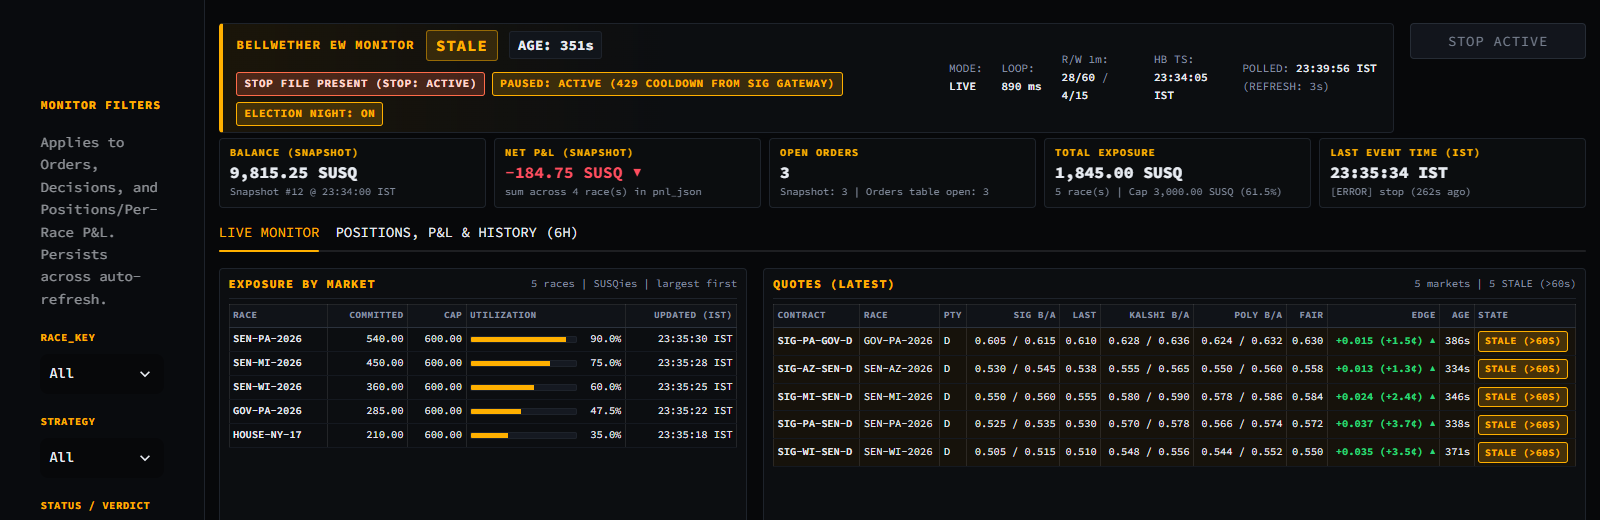
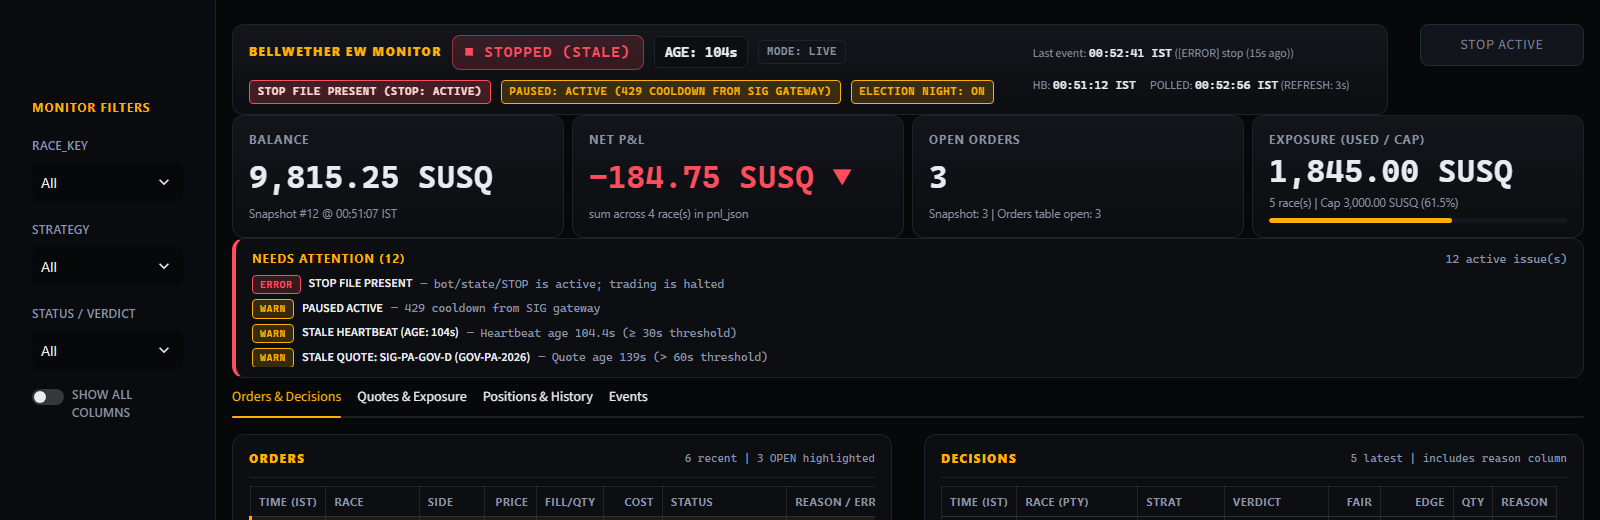
docs: update README test counts and screenshots for dashboard v2 (becbbe2)

diff --git a/README.md b/README.md
@@ -12,8 +12,8 @@
 > - **A live monitoring dashboard** with a confirmation-gated STOP control.
 
 <p align="center">
-  <img src="docs/assets/screenshots/dashboard-live-monitor.png" alt="Bellwether election-week monitor showing heartbeat, exposure by race, quotes with edges, orders, decisions and events" width="100%">
-  <br><sub><em>Sample data.</em> The election-week monitor: bot heartbeat, exposure against caps, SIG quotes against Kalshi and Polymarket, and every order, decision and event with its reason.</sub>
+  <img src="docs/assets/screenshots/dashboard-live-monitor.png" alt="Bellwether election-week monitor showing status strip, 4 key metrics, needs-attention alert box, orders and decisions" width="100%">
+  <br><sub><em>Sample data.</em> The election-week monitor (v2): live status strip, 4 key metrics with exposure bar, derived "Needs attention" problem box, and tabbed inspection of orders, decisions, quotes, positions and events.</sub>
 </p>
 
 ## The problem
@@ -44,7 +44,7 @@ read-only references.
 | **Election-week bot** | A buy-only trading loop with two strategies: complement pricing within a race, and reference pricing against Kalshi and Polymarket. It has one risk gate, an idempotency journal and restart reconciliation, and it runs in dry run by default. | [`main.py`](bot/main.py) · [`strategy.py`](bot/strategy.py) · [`risk.py`](bot/risk.py) · [`orders.py`](bot/orders.py) |
 | **Reference prices** | Public Kalshi and Polymarket quotes, with staleness, spread and cross-venue disagreement checks before a fair value is formed. | [`refs.py`](bot/refs.py) |
 | **Contract mapping** | Venue discovery and filtering, and a candidate-matching workflow tied to pinned source data. The bot map flags 114 SIG contracts in 57 Senate, governor and chamber-control races as approved for the election-week bot, with 10 races excluded. These bot approvals are separate from formal R1 settlement-equivalence verification. | [`venue_markets/`](data/venue_markets/README.md) · [`r1_mapping/`](data/r1_mapping/README.md) · [`map.yaml`](bot/map.yaml) · [`map_review.md`](bot/map_review.md) |
-| **Dashboard** | A Streamlit monitor that opens the bot's SQLite database read-only. It has filters, 6-hour IST history, and a STOP control that requires confirmation. | [`app.py`](dashboard/app.py) · [`db.py`](dashboard/db.py) |
+| **Dashboard** | A Streamlit monitor that opens the bot's SQLite database read-only. Simplified v2 layout with a unified status strip, 4 big numbers, a derived "Needs attention" alert box, 4 detail tabs (Orders & Decisions, Quotes & Exposure, Positions & History, Events), 6-hour IST history, a confirmation-gated STOP control, and legacy layout rollback (`?ui=legacy`). | [`app.py`](dashboard/app.py) · [`db.py`](dashboard/db.py) |
 | **Operations** | systemd units and a step-by-step runbook for a single Ubuntu server, plus hosting evidence and the server design. | [`BOT_RUNBOOK.md`](deploy/BOT_RUNBOOK.md) · [`deploy/`](deploy/README.md) |
 
 ## Architecture
@@ -130,16 +130,16 @@ synthetic, and none show real trading.
 ## Testing and quality
 
 These counts were measured on `main` at
-[`c9d22ca`](https://github.com/ArnavJain2005/Bellwether/commit/c9d22ca7128095f08e8e8c294406a0a598fb86e9)
-on Nov 2, 2026:
+[`becbbe2`](https://github.com/ArnavJain2005/Bellwether/commit/becbbe262ed050a24d74288f968092f9e61d7c25)
+on Nov 4, 2026:
 
 | Suite | Tests | In CI |
 | :--- | ---: | :---: |
 | Engine (`tests/`) | 2,020 | ✓ |
-| Bot (`bot/tests/`) | 207 | ✓ |
+| Bot (`bot/tests/`) | 386 | ✓ |
 | Data and mapping (`data/*/tests/`) | 725 | run separately |
-| Dashboard (`dashboard/tests/`) | 25 | run separately (needs Streamlit) |
-| **Total** | **2,977** | |
+| Dashboard (`dashboard/tests/`) | 34 | run separately (needs Streamlit) |
+| **Total** | **3,165** | |
 
 - Every suite passes, and `ruff check .` is clean.
 - [GitHub Actions](.github/workflows/ci.yml) runs Ruff and `pytest` on Python 3.11 for
@@ -207,4 +207,4 @@ figures are claimed here.
 
 Built by **Arnav Jain** for the SIG Predictions Cup 2026.
 
-<sub>Audited against `main` at `c9d22ca` (PR #56), Nov 2, 2026. SUSQies are simulated competition funds; no real money is traded.</sub>
+<sub>Audited against `main` at `becbbe2` (PR #65), Nov 4, 2026. SUSQies are simulated competition funds; no real money is traded.</sub>
